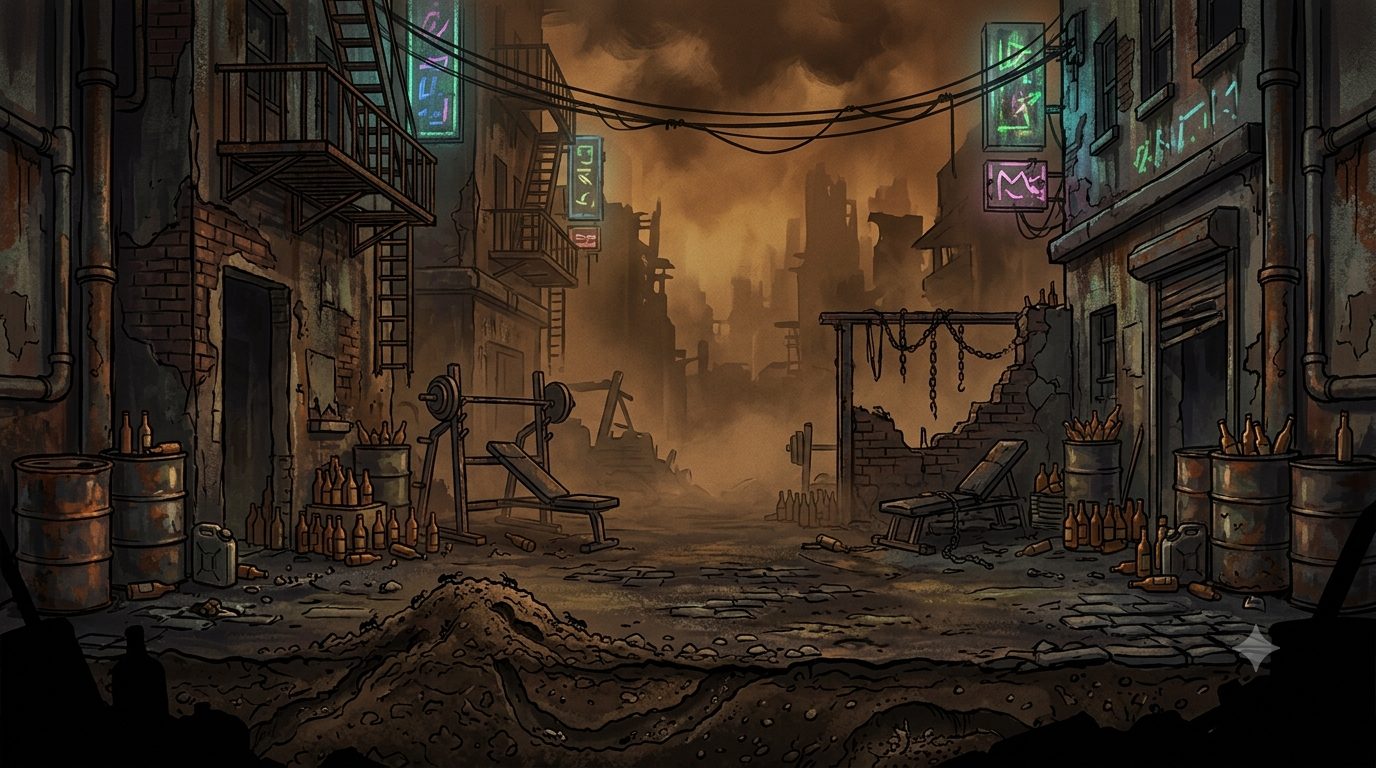
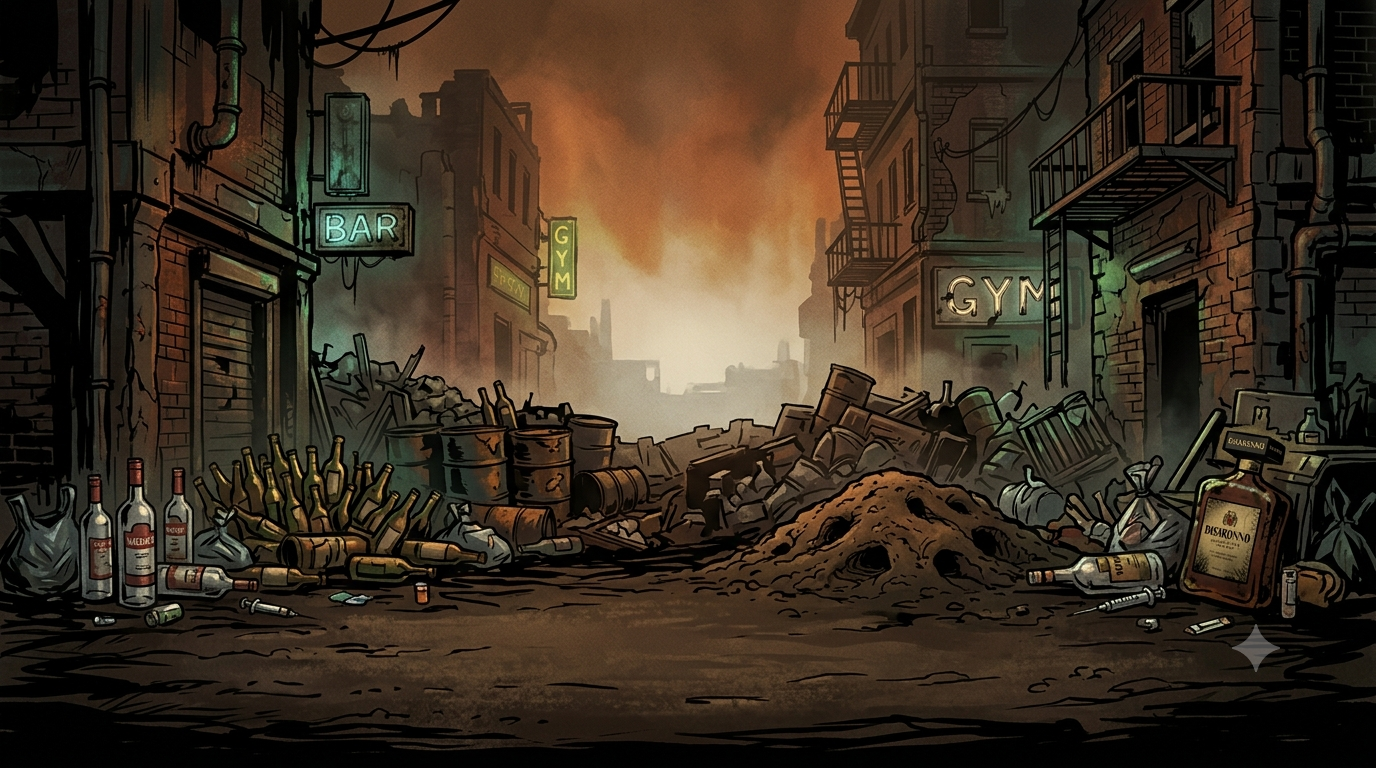
bibibubu

diff --git a/src/content/levels/level13b-void.ts b/src/content/levels/level13b-void.ts
@@ -4,7 +4,8 @@ import type { LevelDef } from '../../types';
    galleggiano gli appunti e i backup di pedro. cinque rimpianti — persone
    deformi del passato — custodiscono ognuno una verità su lametta (1-3) e
    piema (4-5). sconfiggi il rimpianto, la verità si rivela. all'ultima,
-   pedro sta già eseguendo l'ordine: arriva markolino e si corre al nucleo. */
+   pedro sta già eseguendo l'ordine: arriva markolino e si corre al nucleo.
+   in alto, opzionale, l'altare del 33: il miniboss più potente del void. */
 
 export const voidlv: LevelDef = {
     id: 'void',
@@ -23,6 +24,8 @@ export const voidlv: LevelDef = {
         3: { type: 'npc', id: 'arena-3' },
         4: { type: 'npc', id: 'arena-4' },
         5: { type: 'npc', id: 'arena-5' },
+        T: { type: 'npc', id: 'sfida-33' },
+        H: { type: 'lore', id: 'lore-33' },
         z: { type: 'lore', id: 'lore-void-1' },
         x: { type: 'lore', id: 'lore-void-2' },
         y: { type: 'lore', id: 'lore-void-3' },
@@ -51,17 +54,17 @@ export const voidlv: LevelDef = {
         '................................................................................................................................................................................................................................................................................................................................................................................................................................................................................................',
         '................................................................................................................................................................................................................................................................................................................................................................................................................................................................................................',
         '................................................................................................................................................................................................................................................................................................................................................................................................................................................................................................',
-        '................................................................................................................................................................................................................................................................................................................................................................................................................................................................................................',
-        '................................................................................................................................................................................................................................................................................................................................................................................................................................................................................................',
+        '..............................................................................................................................................................................................................................................................................................................................................................H...T.............................................................................................................................',
+        '............................................................................................................................................................................................................................................................................................................................................................#########...........................................................................................................................',
         '............................................................................................................................................................................................................................................##FZ###.............................................................................................................................................................................................................................................',
         '..............................................................................................................................................................................................................................................F.................................................................................................................................................................................................................................................',
-        '..................................................................................................................................................#######.......................................................................................................................................................................................................................................................................................................................................',
+        '..................................................................................................................................................#######...........................................................................................................................................................................................................#########...................................................................................................................',
         '..........................................................#######.......................................................................................................................................................................#####.........................................................................................#######...................................................................................#######.........................................................',
         '................................................................................................................................................................................................................................................................................................................................................................................................................................................................................................',
-        '................................................................................................................................................................................................................................................................................................................................................................................................................................................................................................',
+        '..............................................................................................................................................................................................................................................................................................................................................................#########.........................................................................................................................',
         '......................................................................................................#####.....................................................................................#####.....................................................................................#####.......................................................................................#####.....................................................................................................',
         '..........................................................................................................................................................................................................................................................................................................................................................................................................................................................................................XX....',
-        '.....P.....R..................C.........z...................1.................b................g..............e.........x..............r..............2.................b................g..........C...e.........y.............................3.................b................g..............e.........k..............r..............4.................b................g..........C.....e.......m.............................5.................b...................................XX....',
+        '.....P.....R..................C.........z...................1.................b................g..............e.........x..............r..............2.................b......C.........g..............e.........y.............................3.................b................g..............e.........k..............r..............4.................b......C.........g................e.......m.............................5.................b...................................XX....',
         '####################################################################################################.........#################################################################################.........#################################################################################.........###################################################################################.........###################################################################################################',
         '####################################################################################################.........#################################################################################.........#################################################################################.........###################################################################################.........###################################################################################################',
         '####################################################################################################^^^^^^^^^#################################################################################^^^^^^^^^#################################################################################^^^^^^^^^###################################################################################^^^^^^^^^###################################################################################################',

diff --git a/src/content/story.ts b/src/content/story.ts
@@ -71,7 +71,7 @@ export const DIALOGUES: Record<string, DialogueLine[]> = {
         { speaker: 'markolino', color: 'green', text: 'ancora qui?? il realm COLLASSA. con calma eh, ma collassa. muoviti che più avanti c\'è gente messa peggio di te.' },
     ],
     'lore-cratere': [
-        { speaker: 'bordo del cratere', color: 'green', text: '«epicentro dello scontro. qui la wave ha toccato terra per l\'ultima volta intera. il cratere è perfettamente circolare: piema dice "ovvio", lametta dice "prego".»' },
+        { speaker: 'bordo del cratere', color: 'green', text: '«epicentro dello scontro. qui la wave ha toccato terra per l\'ultima volta intera. cratere perfettamente circolare, diametro 33: piema dice "ovvio", lametta dice "prego". una targa arrugginita sul bordo: "Herbert, (TN), era qui".»' },
     ],
     'lore-scale': [
         { speaker: 'gradino numerato', color: 'green', text: '«le scale del collasso: 847 gradini, uno per ogni giro di samatt. nessuno sa chi le abbia contate. tutti sanno chi le avrebbe contate.»' },
@@ -80,16 +80,16 @@ export const DIALOGUES: Record<string, DialogueLine[]> = {
         { speaker: 'registro del deposito', color: 'yellow', text: '«deposito citelis notturno. regolamento: i bus dormono in piedi, i pendolari dove capita. vietato svegliare il 7:40: morde anche da fermo.»' },
     ],
     'lore-capolinea': [
-        { speaker: 'cartello del capolinea', color: 'yellow', text: '«capolinea fantasma: qui i loop venivano a morire, prima che guggu li rendesse eterni. se aspetti abbastanza, passa un bus che non esiste. non salirci.»' },
+        { speaker: 'cartello del capolinea', color: 'yellow', text: '«capolinea fantasma: qui i loop venivano a morire, prima che guggu li rendesse eterni. se aspetti abbastanza, passa un bus che non esiste. sul vetro, inciso a chiave: "Claudio è sceso qui e non è più risalito". non salirci.»' },
     ],
     'lore-futuri': [
         { speaker: 'cornice vuota', color: 'purple', text: '«galleria dei futuri possibili: 99 specchi. in uno diventi dio, in uno resti geco, in 97 fai una figuraccia. la statistica del realm è spietata.»' },
     ],
     'lore-laboratorio-colori': [
-        { speaker: 'barattolo etichettato', color: 'purple', text: '«laboratorio dei colori di lametta. scaffale a: rabbia (rosso). scaffale b: malinconia (viola). scaffale c: trenbolone (non è un colore ma lo usa come se lo fosse).»' },
+        { speaker: 'barattolo etichettato', color: 'purple', text: '«laboratorio dei colori di lametta. scaffale a: rabbia (rosso). scaffale b: malinconia (viola). scaffale c: trenbolone (lo usa come un colore). scaffale d, chiuso a chiave: "Margherita" — una tinta che lametta non ha mai mostrato a nessuno.»' },
     ],
     'lore-radio': [
-        { speaker: 'torre radio', color: 'red', text: '«da qui notino trasmette il suo server, 24 ore su 24. frequenza: tutte. contenuto: "BUM". ascolti certificati: 1 (sua madre, per controllarlo).»' },
+        { speaker: 'torre radio', color: 'red', text: '«da qui notino trasmette il suo server 24 ore su 24. frequenza: tutte, tranne i 33 MHz — occupati da una vecchia Radio Pico che nessuno riesce a spegnere. contenuto: "BUM". ascolti certificati: 1 (sua madre, per controllarlo).»' },
     ],
     'lore-dune': [
         { speaker: 'palo sepolto', color: 'red', text: '«sotto queste dune c\'è una linea intera di citelis: la 14 barrato. guggu la cerca ancora. le dune non restituiscono niente, nemmeno i mezzi pubblici.»' },
@@ -324,7 +324,7 @@ export const DIALOGUES: Record<string, DialogueLine[]> = {
         { speaker: 'manuale della catena', color: 'cyan', text: '«procedura di imbottigliamento: 1. prendere acqua. 2. non filtrarla (il sapore è identità aziendale). 3. etichetta PREMIUM. 4. se il cliente si lamenta, vendergli l\'effetto smela III come esperienza.»' },
     ],
     'lore-cisterna': [
-        { speaker: 'cisterna numero 3', color: 'cyan', text: '«livello: pieno. contenuto: ufficialmente "essenza di sorgente". una scritta a pennarello sotto: "rio merdone tale e quale, non dirlo a nessuno — s."»' },
+        { speaker: 'cisterna numero 3', color: 'cyan', text: '«livello: pieno. contenuto: ufficialmente "essenza di sorgente". fornitura elettrica intestata a Enercoop SpA, utenza morosa da 33 mesi. scritta a pennarello sotto: "rio merdone tale e quale, non dirlo a nessuno — s."»' },
     ],
     'furgone-intro': [
         { speaker: 'smela', color: 'cyan', text: 'EHI! tu non sei del tour!! sei venuto a chiudere lo stabilimento, vero? lo sapevo. nessuno apprezza più la libera impresa.' },
@@ -355,6 +355,9 @@ export const DIALOGUES: Record<string, DialogueLine[]> = {
     ],
     'lore-trenbolone': [
         { speaker: 'volantino unto', color: 'orange', text: '«TRENBOLONE: prima settimana gratis. seconda settimana doppia. terza settimana sei tu che paghi noi, ma non te ne accorgi. — approvato dal ministero del realm (non vero)»' },
+    ],
+    'lore-combo': [
+        { speaker: 'pietra scolpita', color: 'orange', text: '«la combo migliore è vodka con disaronno. fidati di chi ha perso tutti i denti prima dei trent\'anni.»' },
     ],
     'lore-rio-storia': [
         { speaker: 'pietra del fiume', color: 'orange', text: '«il rio merdone non è sempre stato sacro. prima era solo merdone. poi ci è caduto dentro un frammento della wave e adesso è merdone CON proprietà curative. la natura trova un modo.»' },
@@ -492,7 +495,7 @@ export const DIALOGUES: Record<string, DialogueLine[]> = {
         { speaker: 'notino', color: 'red', text: 'IL ROLEPLAY NON È REATO!! ...vero?? NON RISPONDERE. me ne vado!! questa zona è LAGGATA comunque!!' },
     ],
     'lore-questura': [
-        { speaker: 'bacheca della questura', color: 'blue', text: '«ricercati del distretto: 1. il limite notevole (latitante). 2. lochef85 (avvicinabile solo con mattarello di servizio). 3. notino (non imputabile, purtroppo). 4. smela (truffa aggravata, ma simpatico).»' },
+        { speaker: 'bacheca della questura', color: 'blue', text: '«ricercati del distretto: 1. il limite notevole (latitante). 2. lochef85 (avvicinabile solo con mattarello di servizio). 3. notino (non imputabile, purtroppo). 4. smela (truffa aggravata, ma simpatico). 5. Johnson Tormenta (professione ignota, reperibilità nulla, foto sempre mossa).»' },
     ],
     'lore-fascicolo': [
         { speaker: 'fascicolo aperto', color: 'blue', text: '«caso analisi 1, nota a margine di romero: "ogni indizio porta a lametta. ma lametta porta al trenbolone, e il trenbolone porta a lametta. il cerchio non è un indizio, è una condanna".»' },
@@ -560,6 +563,20 @@ export const DIALOGUES: Record<string, DialogueLine[]> = {
         { speaker: 'commissario romero', color: 'blue', text: 'tu hai fatto la tua parte, custode. ora muoviti: l\'uscita del void porta dritta al nucleo. il processo lo apro io, l\'esecuzione la fermi tu.' },
     ],
 
+    'lore-33': [
+        { speaker: 'lapide', color: 'cyan', text: '«33. di nuovo.»' },
+        { speaker: 'lapide', color: 'cyan', text: '«non l\'abbiamo messo noi.»' },
+    ],
+    'trentatre-altare': [
+        { speaker: 'l\'altare', color: 'yellow', text: 'tre e tre. è qui da prima di te. lo chiami?' },
+    ],
+    'trentatre-intro': [
+        { speaker: 'il 33', color: 'yellow', text: 'non sono il rimpianto di nessuno. io ricorro.' },
+        { speaker: 'il 33', color: 'yellow', text: 'tre colpi. tre fasi. vediamo come cadi.' },
+    ],
+    'trentatre-sconfitto': [
+        { speaker: 'il 33', color: 'yellow', text: 'tornerò. torno sempre. al trentatreesimo.' },
+    ],
     'romero-guida-1': [
         { speaker: 'commissario romero', color: 'blue', text: 'sta\' vicino, custode. nel void se ti allontani ti perdo, e io con questa schiena non corro. il primo rimpianto è lì avanti: lascia che ci arriviamo insieme.' },
     ],
@@ -579,7 +596,7 @@ export const DIALOGUES: Record<string, DialogueLine[]> = {
         { speaker: 'commissario romero', color: 'blue', text: 'che aspetti? l\'uscita è lì e porta al nucleo. io resto a verbalizzare. corri, custode: il dovuto processo posso aspettarlo io, non il realm.' },
     ],
     'lore-void-1': [
-        { speaker: 'appunto galleggiante', color: 'cyan', text: '«bozza scartata, calligrafia di lametta: "delega definitiva dei poteri di manutenzione del realm al soggetto PEDRO. motivazione: vabbè dai".»' },
+        { speaker: 'appunto galleggiante', color: 'cyan', text: '«bozza scartata di lametta: "delega definitiva dei poteri di manutenzione al soggetto PEDRO, art. 7". a margine, mano di romero: "art. 7 di QUALE codice? il Codice Penale non arriva agli dei. ci ho provato per quarant\'anni".»' },
     ],
     'lore-void-2': [
         { speaker: 'scontrino nel void', color: 'cyan', text: '«ricevuta: 1× boccetta, ore 03:58. firmato lametta. sul retro, a penna tremante: "stanotte sistemo tutto io, anzi no, lo fa pedro, geniale".»' },
@@ -588,7 +605,7 @@ export const DIALOGUES: Record<string, DialogueLine[]> = {
         { speaker: 'bozzetto a matita', color: 'cyan', text: '«schizzo di pedro con gli occhi storti, datato il giorno PRIMA del glitch. in basso: "venuto bene". una macchia di colore copre la firma, ma la mano è quella.»' },
     ],
     'lore-void-4': [
-        { speaker: 'log con due versioni', color: 'cyan', text: '«riga originale: "lametta ordina a pedro di raddrizzare il realm". riga corretta in blu: "piema indaga sull\'anomalia". stessa ora. stessa mano? no. la seconda è di piema.»' },
+        { speaker: 'log con due versioni', color: 'cyan', text: '«riga originale: "lametta ordina a pedro di raddrizzare il realm". riga corretta in blu: "piema indaga sull\'anomalia". accanto al profilo di piema, una sola nota: "ultimo accesso: di recente".»' },
     ],
     'lore-void-5': [
         { speaker: 'memo interno mai spedito', color: 'cyan', text: '«da piema, archiviato e mai inviato: "so cos\'ha fatto lametta. lo so da sempre. e non lo consegnerò: il realm può anche restare rotto, il socio no". il void lo tiene da allora.»' },
@@ -715,7 +732,7 @@ export const DIALOGUES: Record<string, DialogueLine[]> = {
         { speaker: 'contratto luminoso', color: 'cyan', text: '«tommasorveglianza: 0,09€ una tantum. clausola 7: "il cliente accetta di essere il prodotto". clausola 8: "la clausola 7 era uno scherzo". clausola 9: "no".»' },
     ],
     'lore-server': [
-        { speaker: 'rack di server', color: 'cyan', text: '«qui dentro ronza tutto il realm: ogni verso di geco, ogni giro di samatt, ogni flop. alimentato da un frammento della wave e da una ciabatta del brico chiaramente sovraccarica.»' },
+        { speaker: 'rack di server', color: 'cyan', text: '«qui dentro ronza tutto il realm: ogni verso di geco, ogni giro di samatt, ogni flop. su un monitor di servizio, lasciato acceso da anni, va in onda DMAX a volume zero. alimentato da un frammento della wave e da una ciabatta del brico sovraccarica.»' },
     ],
 
     /* ---------- capitolo 9: la cantina di ticummi ---------- */

diff --git a/src/content/levels/level04b-trenbolone.ts b/src/content/levels/level04b-trenbolone.ts
@@ -13,6 +13,7 @@ export const trenbolone: LevelDef = {
         t: { type: 'enemy', kind: 'tossico-trenbo' },
         b: { type: 'barre', amount: 10 },
         B: { type: 'boss', kind: 'flauto' },
+        l: { type: 'lore', id: 'lore-combo' },
     },
     grid: [
         '..................................................................................................................................................................................................................................................................................................................................................................................................................................................................',
@@ -31,7 +32,7 @@ export const trenbolone: LevelDef = {
         '........................................................t.....................................................###############.......................................................................................................................................................................................................................###############.................C.......t.S...................................................................',
         '..................................................############..........................t....................................................................................................................................................................................................................................t....................................................#########################.........................t.............................',
         '........................................t.......................................####################...........................................................................########....................................................................................########...................................###############.....................................................................................###############.........................',
-        '........P.............t.......###############...............S..................................C.......................................^^^^^^^^^^.....t.................................................t........................B........................t.........C.............................^^^^^^^^^^^^............................^^^^^^^^.........................................................^^^^^^^^^^........................................X....',
+        '........P.............t.......###############...............S..................................C.......................................^^^^^^^^^^.....t.................................................t............l...........B........................t.........C.............................^^^^^^^^^^^^............................^^^^^^^^.........................................................^^^^^^^^^^........................................X....',
         '##################################################################################################################################################################################################################################################################################################################################################################################################################################################################',
         '##################################################################################################################################################################################################################################################################################################################################################################################################################################################################',
         '##################################################################################################################################################################################################################################################################################################################################################################################################################################################################',

diff --git a/src/scenes/GameScene.ts b/src/scenes/GameScene.ts
@@ -54,6 +54,7 @@ const BOSS_INTRO: Partial<Record<BossKind, string>> = {
     modello: 'modello-intro',
     revisore: 'revisore-intro',
     garante: 'garante-intro',
+    trentatre: 'trentatre-intro',
 };
 
 /* l'ordine dei rimpianti nel void: ad ognuno la sua verità */
@@ -472,6 +473,17 @@ export class GameScene extends Phaser.Scene {
             // interactable che segue romero: la sua posizione si aggiorna nel loop
             this.companionInteract = { x, y, range: 80, onInteract: () => this.interactGuida() };
             this.interactables.push(this.companionInteract);
+            return;
+        }
+
+        // l'altare del 33: sfida opt-in al miniboss più potente del void
+        if (id === 'sfida-33') {
+            if (state.hasFlag('boss-down-trentatre')) return;
+            const altar = this.add.sprite(x, y, 'lore-tablet').setDepth(4).setPipeline('Light2D');
+            altar.setScale(1.3).setTint(0xfde047);
+            this.lighting.follow(altar, 0xfacc15, 200, 0.95);
+            this.tweens.add({ targets: altar, y: y - 5, duration: 900, yoyo: true, repeat: -1, ease: 'Sine.easeInOut' });
+            this.interactables.push({ x, y, range: 70, onInteract: () => this.interactSfida33(altar) });
             return;
         }
 
@@ -1231,6 +1243,31 @@ export class GameScene extends Phaser.Scene {
         }
         const n = Math.min(this.voidStep + 1, VOID_REGRETS.length);
         this.startDialogue(`romero-guida-${n}`);
+    }
+
+    /** l'altare del 33: evocabile in qualsiasi momento, anche coi rimpianti vivi.
+        il rimpianto in corso viene accantonato e rievocato dopo la sfida. */
+    private interactSfida33(altar: Phaser.GameObjects.Sprite): void {
+        this.startDialogue('trentatre-altare', () => {
+            bus.emit('choice-show', {
+                title: 'il 33 pulsa nell\'altare. lo evochi? è molto più forte di te.',
+                options: [{ label: 'evoca il 33', danger: true }, { label: 'non ancora' }],
+                onPick: (i) => {
+                    if (i !== 0) return;
+                    // accantono il rimpianto in corso: tornerà fresco dopo il 33
+                    if (this.boss?.active && VOID_REGRETS.includes(this.boss.def.kind)) {
+                        this.boss.destroy();
+                        bus.emit('boss-hp', null);
+                    }
+                    altar.destroy();
+                    this.boss = new Boss(this, altar.x, altar.y - 30, 'trentatre');
+                    this.boss.chase = true;
+                    this.bossIntroShown = false;
+                    this.lighting.follow(this.boss, this.boss.def.glowColor, 320, 1.1);
+                    this.setupBossColliders();
+                },
+            });
+        });
     }
 
     /** l'ultima verità: pedro sta eseguendo l'ordine ORA. arriva markolino. */
@@ -2519,6 +2556,18 @@ export class GameScene extends Phaser.Scene {
                                 this.gotoLevel('rio');
                             });
                         });
+                    }
+                });
+                break;
+            case 'trentatre':
+                this.startDialogue('trentatre-sconfitto', () => {
+                    state.save.barre += 333;
+                    bus.emit('barre-changed', { barre: state.save.barre, gained: true });
+                    bus.emit('toast', { text: '✦ hai battuto il 33. +333 barre. il numero ti rispetta, ora ✦' });
+                    state.persist();
+                    // rievoco il rimpianto accantonato, così la sequenza riprende
+                    if (this.def.script === 'indagine' && !state.hasFlag('void-concluso') && this.voidStep < VOID_REGRETS.length) {
+                        this.time.delayedCall(900, () => this.spawnRegret(this.voidStep));
                     }
                 });
                 break;

diff --git a/src/content/bosses.ts b/src/content/bosses.ts
@@ -256,7 +256,7 @@ export const BOSSES: Record<BossKind, BossDef> = {
         kind: 'dei',
         name: 'piema & lametta',
         texture: 'boss-dei',
-        hp: 120,
+        hp: 200,
         glowColor: 0xffffff,
         attacks: {
             1: ['lamette', 'radial', 'dive'],
@@ -382,6 +382,28 @@ export const BOSSES: Record<BossKind, BossDef> = {
         contactDamage: 1,
     },
     // piema che giura il falso e tace per amore: il rimpianto peggiore
+    // il 33: il numero che ricorre in tutto il realm. nessuno sa perché.
+    // quando si manifesta in persona, è la cosa più potente del void.
+    trentatre: {
+        kind: 'trentatre',
+        name: 'il 33 (il numero che non doveva esistere)',
+        texture: 'boss-trentatre',
+        // il superboss opzionale: durissimo, ma compatto sulla vita
+        hp: 160,
+        glowColor: 0xfacc15,
+        // solo attacchi a distanza: niente picchiate o cariche, è uno zoner
+        attacks: {
+            1: ['teleport', 'radial', 'rain','burst', 'burst',  'lamette', 'burst', 'lamette','lamette','lamette',  'summon'],
+            2: ['teleport', 'radial', 'rain','burst', 'burst',  'lamette', 'burst', 'lamette','lamette','lamette',  'summon'],
+            3: ['rain', 'lamette', 'burst', 'rain', 'lamette', 'burst', 'rain', 'lamette', 'burst', 'rain', 'lamette', 'burst',],
+        },
+        cooldownMs: { 1: 1300, 2: 950, 3: 650 },
+        summonKind: 'numero',
+        guardsExit: false,
+        glitchy: true,
+        contactDamage: 3,
+        bodyScale: 1.4,
+    },
     garante: {
         kind: 'garante',
         name: 'il garante (l\'ultimo rimpianto di piema)',

diff --git a/src/engine/textures.ts b/src/engine/textures.ts
@@ -1333,6 +1333,38 @@ function bosses(scene: Phaser.Scene): void {
         ricordoScan(g, 52, 80, 0x60a5fa);
     });
 
+    // il 33: due tre giganti e ostili, fatti di numero puro. occhi tra le curve.
+    make(scene, 'boss-trentatre', 88, 84, (g) => {
+        glow(g, 44, 42, 14, 0xfacc15, 0.3);
+        const tre = (cx: number) => {
+            g.lineStyle(7, 0xfde047, 0.95);
+            // curva superiore del 3
+            g.beginPath();
+            g.arc(cx, 24, 14, Math.PI * 1.15, Math.PI * 0.5, false);
+            g.strokePath();
+            // curva inferiore del 3
+            g.beginPath();
+            g.arc(cx, 52, 14, Math.PI * 1.5, Math.PI * 0.85, false);
+            g.strokePath();
+            // bordo interno luminoso
+            g.lineStyle(2, 0xffffff, 0.6);
+            g.beginPath();
+            g.arc(cx, 24, 14, Math.PI * 1.15, Math.PI * 0.5, false);
+            g.strokePath();
+            // occhio ostile annidato nella pancia del numero
+            glow(g, cx + 2, 38, 2.6, 0xf87171, 0.9);
+        };
+        tre(26);
+        tre(62);
+        // glitch tra i due tre: scariche verticali
+        g.lineStyle(1.5, 0xfacc15, 0.5);
+        for (const x of [44, 46, 42]) {
+            g.beginPath();
+            g.moveTo(x, 8); g.lineTo(x, 76);
+            g.strokePath();
+        }
+    });
+
     // il garante: piema che giura il falso. mano alzata, bocca cucita, cuore nascosto
     make(scene, 'boss-garante', 54, 84, (g) => {
         glow(g, 27, 46, 9, 0x60a5fa, 0.25);

diff --git a/src/entities/Boss.ts b/src/entities/Boss.ts
@@ -17,6 +17,8 @@ export class Boss extends Phaser.Physics.Arcade.Sprite {
     summonOverride: BossDef['summonKind'] = undefined;
     /** modalità dei nel patto con pedro: attacchi a raffica continua */
     frenzy = false;
+    /** insegue il player muovendo lentamente l'ancoraggio (es. il 33) */
+    chase = false;
     private shieldGraphics?: Phaser.GameObjects.Graphics;
 
     private anchorX: number;
@@ -106,6 +108,10 @@ export class Boss extends Phaser.Physics.Arcade.Sprite {
         if (this.frenzy && player.active) {
             this.anchorX = player.x;
             this.anchorY = player.y - 130;
+        } else if (this.chase && player.active) {
+            // inseguimento morbido: l'ancora scivola verso il player, ma niente raffica
+            this.anchorX += (player.x - this.anchorX) * 0.05;
+            this.anchorY += (player.y - 150 - this.anchorY) * 0.05;
         }
 
         // ritorno morbido verso il punto di hover

diff --git a/src/types.ts b/src/types.ts
@@ -36,7 +36,8 @@ export type BossKind =
     | 'guggu' | 'breccio' | 'notino' | 'riba' | 'furgone' | 'limite'
     | 'lochef' | 'ombra' | 'ticummi' | 'formicona' | 'teorema' | 'pedrino' | 'pedro' | 'dei' | 'flauto'
     | 'danjilo' | 'smela' | 'settequaranta' | 'custode'
-    | 'delegato' | 'notturno' | 'modello' | 'revisore' | 'garante';
+    | 'delegato' | 'notturno' | 'modello' | 'revisore' | 'garante'
+    | 'trentatre';
 
 export type EntitySpec =
     | { type: 'enemy'; kind: EnemyKind }
